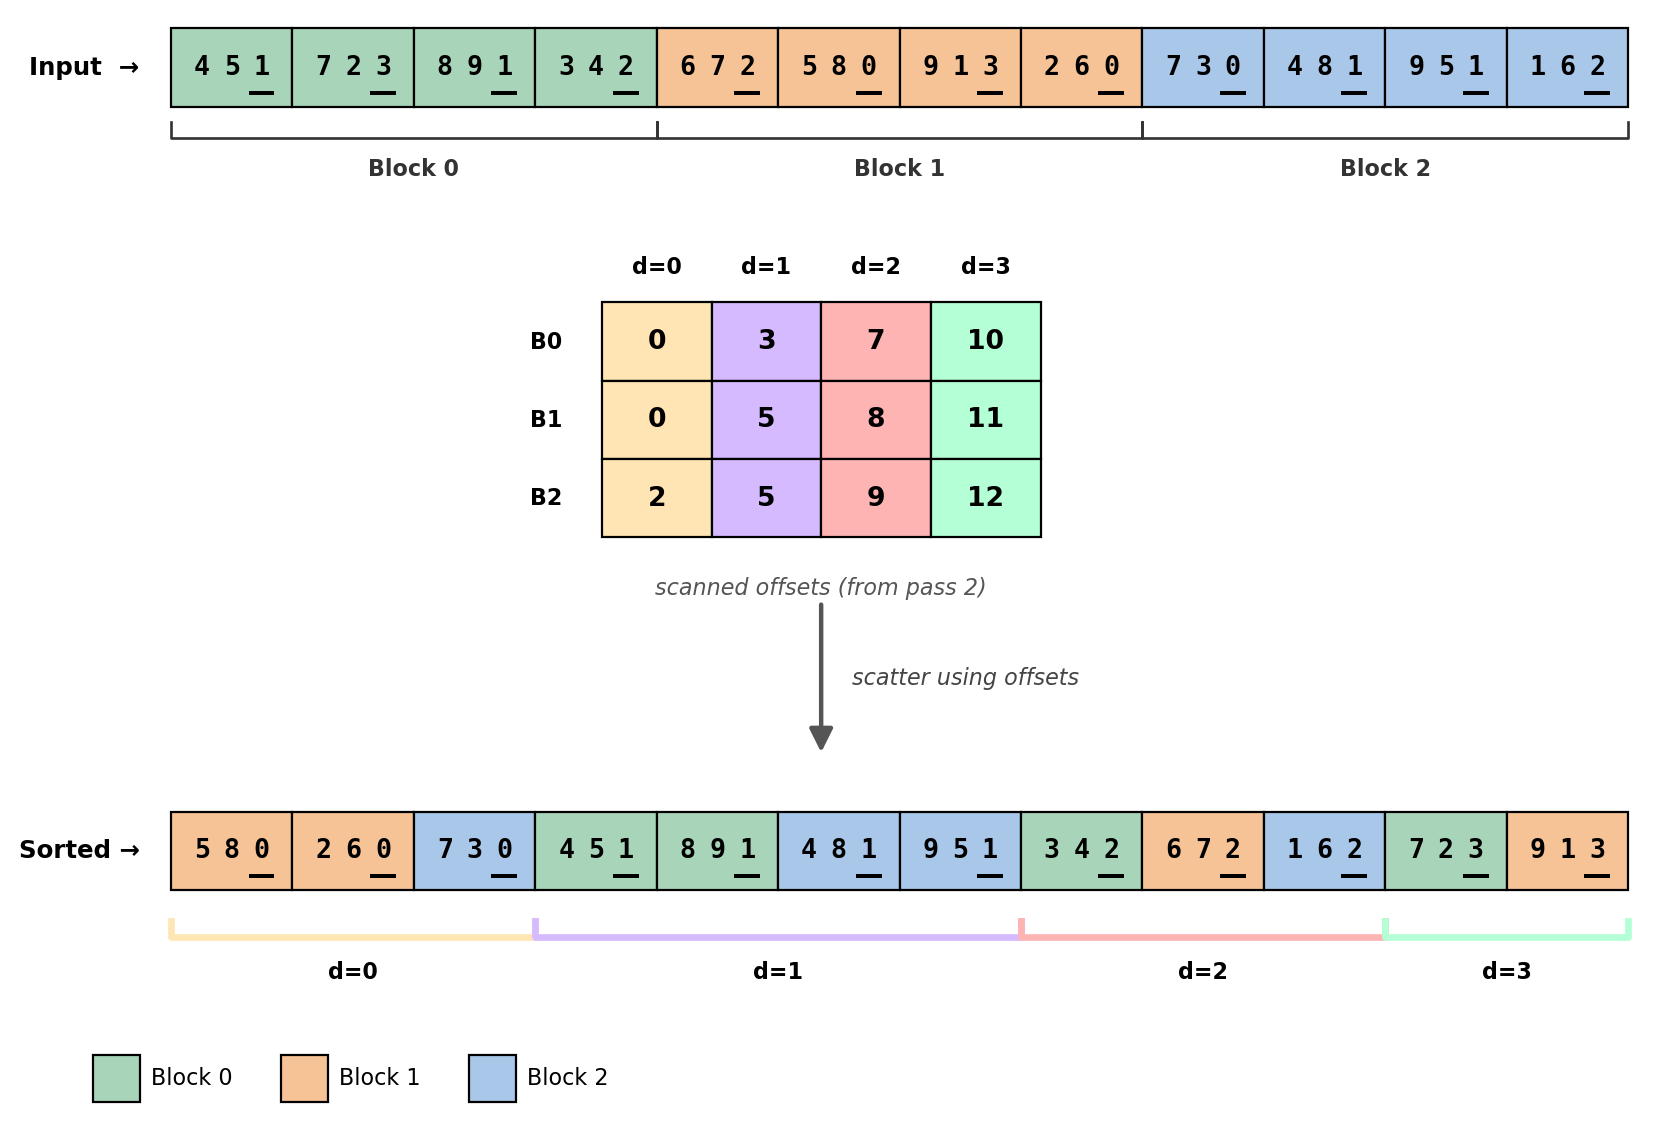
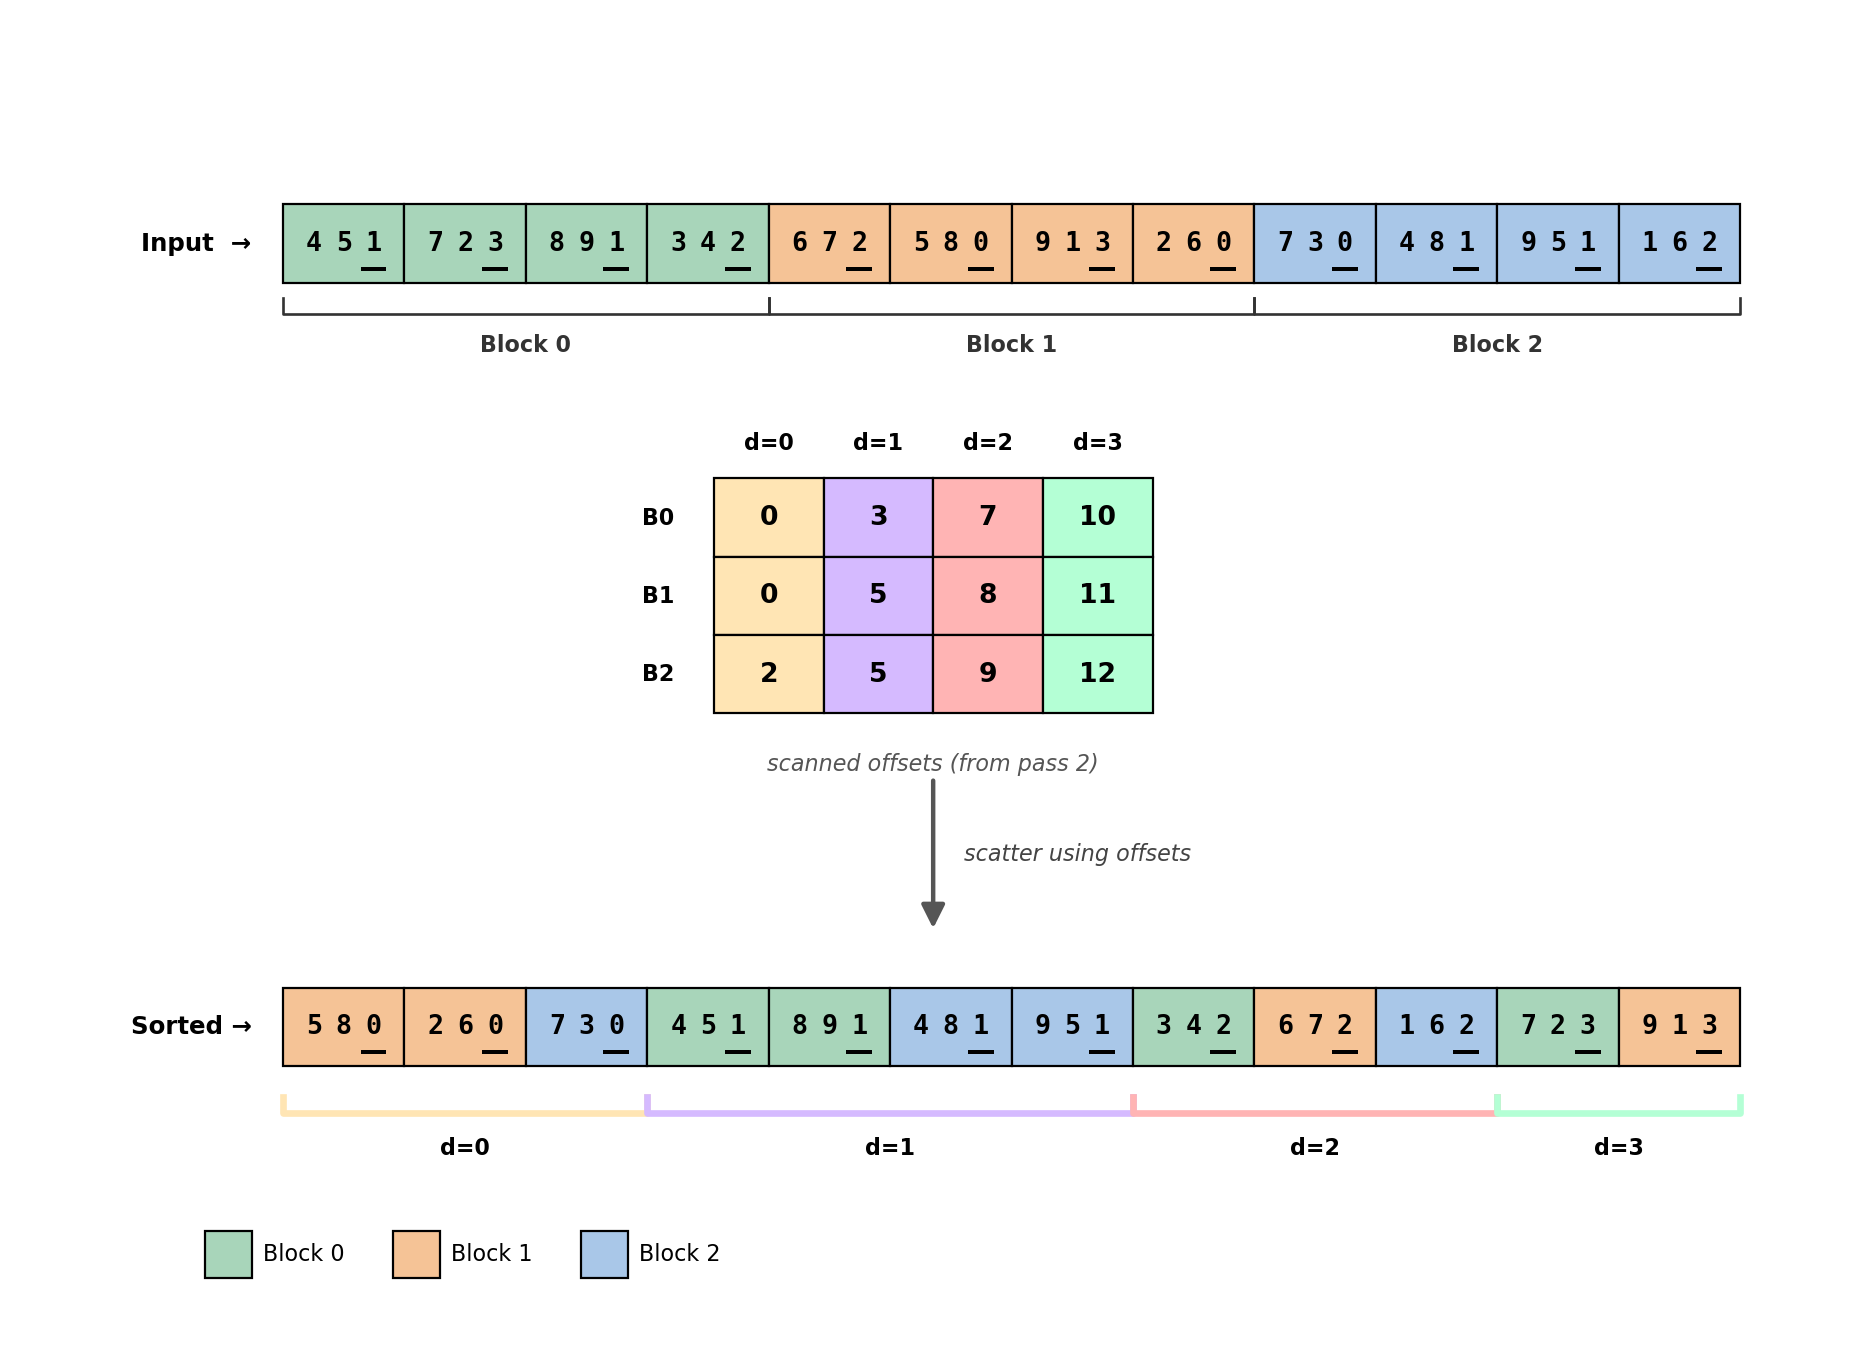
doc: improve diagrams

diff --git a/README.md b/README.md
@@ -99,11 +99,11 @@ After 4 passes, the data is back in the user-supplied input buffer (4 swaps = ev
   <img src="doc/throughput_comparison.png" width="760" alt="Throughput comparison">
 </p>
 
-| Algorithm           | Time      | Throughput     | Speedup vs CPU |
-|---------------------|-----------|----------------|----------------|
-| CPU (single thread) | 2842 ms   | 35.2 M elem/s  | 1.0×           |
-| OpenMP              | 538 ms    | 185.8 M elem/s | 5.3×           |
-| Vulkan Compute      | 193 ms    | 517.2 M elem/s | 14.7×          |
+| Algorithm                    | Hardware                        | Time      | Throughput     | Speedup vs CPU |
+|------------------------------|---------------------------------|-----------|----------------|----------------|
+| CPU (single thread)          | Intel Core i7-12700K            | 2842 ms   | 35.2 M elem/s  | 1.0×           |
+| OpenMP (20 threads)          | Intel Core i7-12700K            | 538 ms    | 185.8 M elem/s | 5.3×           |
+| Vulkan Compute               | NVIDIA GeForce RTX 3060         | 193 ms    | 517.2 M elem/s | 14.7×          |
 
 ## Usage
 